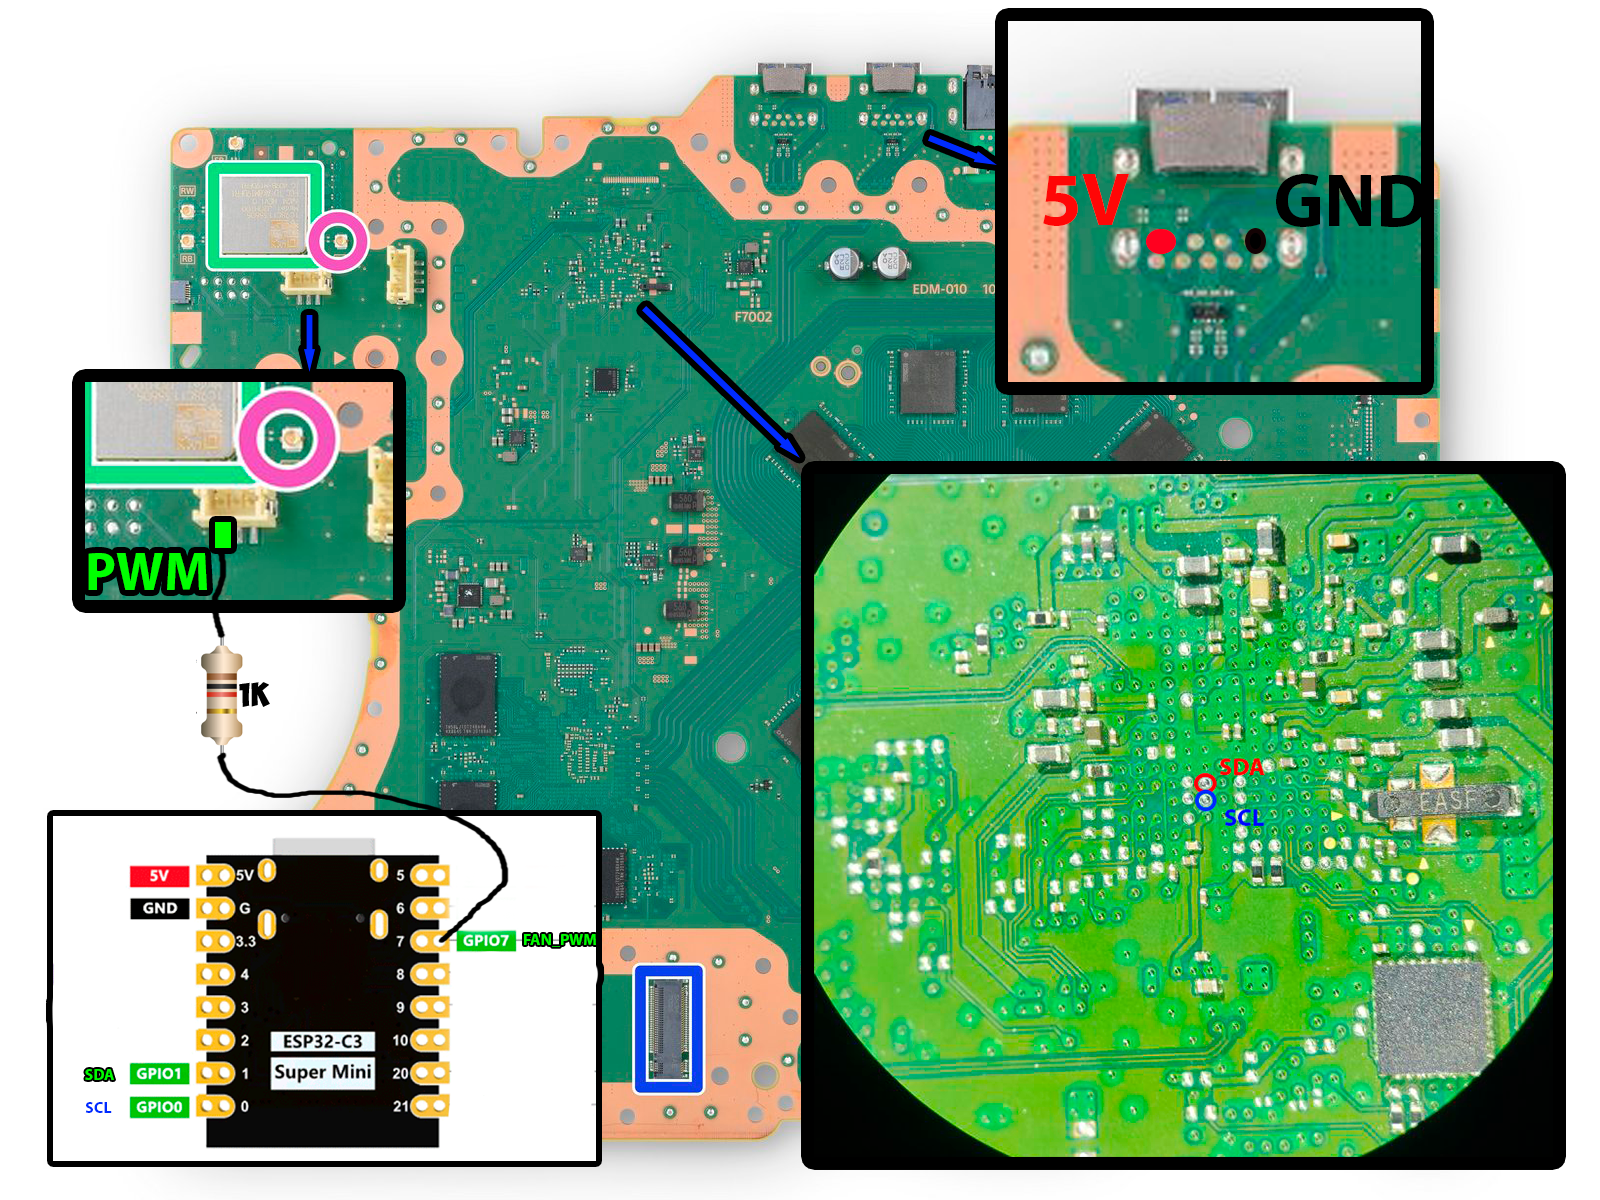
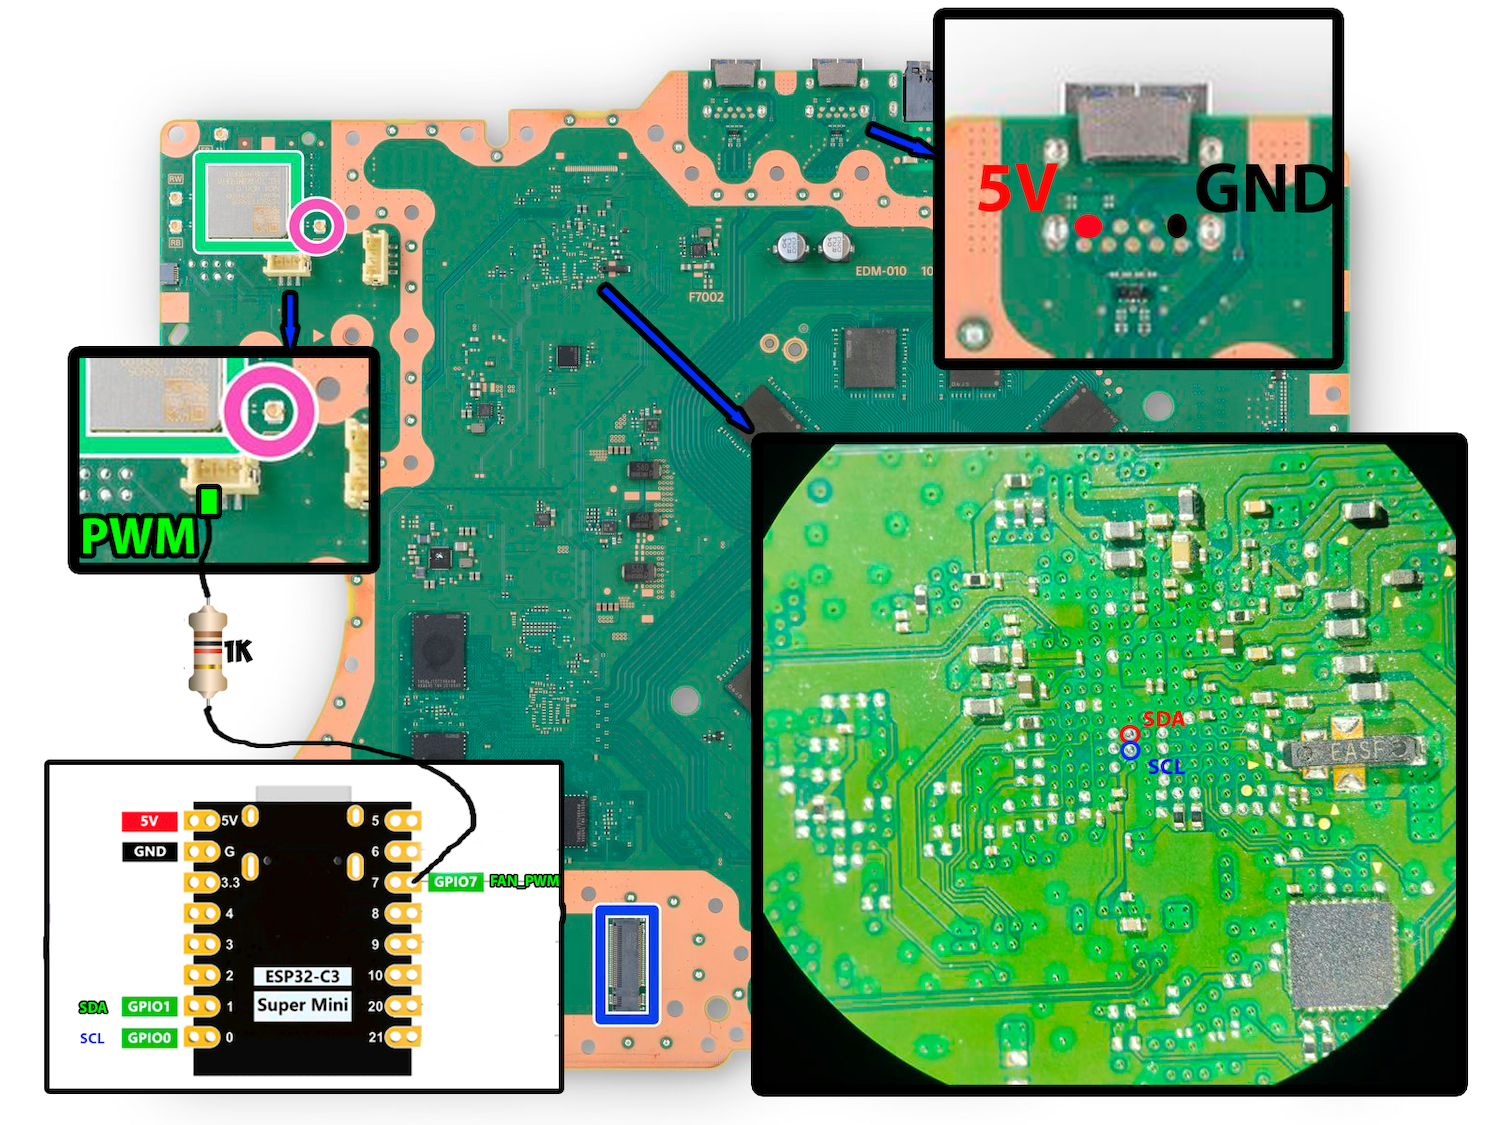
upd

diff --git a/README.md b/README.md
@@ -9,13 +9,9 @@
 <div class="navigation">
 
 [УСТАНОВКА ПРОШИВКИ](#01)
-
 [ПОДКЛЮЧЕНИЕ И НАСТРОЙКА](#02)
-
 [ИНСТРУКЦИЯ ПО ЭКСПЛУАТАЦИИ](#03)
-
 [ДОПОЛНИТЕЛЬНАЯ ПЛАТА](#04)
-
 [ЧАСТО ЗАДАВАЕМЫЕ ВОПРОСЫ (FAQ)](#05)
 
 </div>
@@ -159,11 +155,9 @@ System Ready (Hardware Sync)
 
 *Примечание: конкретные точки подключения SDA/SCL могут незначительно отличаться в разных ревизиях платы, но выводы чипсета M11 и N11 являются стандартными. Обвязка может различаться, но контактные площадки (переходные отверстия) сохраняются.*
 
-![image](media/schematic1.png)
+![image](media/schematic_full.png)
 
 *Принципиальная схема устройства и подключения*
-
-![image](media/schematic2.png)
 
 ### 3. Настройка контроллера
 
@@ -193,7 +187,7 @@ System Ready (Hardware Sync)
 
 ### 1. Главный экран
 
-![image](media/mainscreen.png)
+![image](media/01_mainscreen.png)
 
 На главном экране отображается:
 - **Текущая температура** (°C) - крупное значение в центре.
@@ -230,7 +224,7 @@ System Ready (Hardware Sync)
 
 #### 3.1 MANUAL (Ручной режим)
 
-![image](media/manual.png)
+![image](media/02_manual.png)
 
 В этом режиме вы сами задаёте скорость вентилятора в процентах.
 - Ползунок под надписью MANUAL: XX% позволяет установить нужное значение от 0 до 100%.
@@ -238,7 +232,7 @@ System Ready (Hardware Sync)
 
 #### 3.2 OFFSET (Режим смещения)
 
-![image](media/offset.png)
+![image](media/03_offset.png)
 
 Устройство берёт за основу скорость, заданную штатным управлением консоли (INPUT), и прибавляет к ней фиксированное значение (OFFSET).
 
@@ -246,11 +240,11 @@ System Ready (Hardware Sync)
 - Итоговая скорость = INPUT + OFFSET (ограничивается 100%).
 - *Примечание*: если датчик температуры не работает, в этом режиме можно принудительно игнорировать его (см. раздел 6.3 - значок I2C).
 
-![image](media/ignore.png)
+![image](media/04_ignore.png)
 
 #### 3.3 TARGET (Стабилизация температуры)
 
-![image](media/target.png)
+![image](media/05_target.png)
 
 Устройство пытается удержать температуру консоли на заданном целевом значении, динамически изменяя скорость вентилятора.
 
@@ -261,7 +255,7 @@ System Ready (Hardware Sync)
 
 #### 3.4 GRAPH (Режим кривой)
 
-![image](media/graph.png)
+![image](media/06_graph.png)
 
 Позволяет задать произвольную зависимость скорости вентилятора от температуры с помощью графика-редактора.
 
@@ -271,7 +265,7 @@ System Ready (Hardware Sync)
 
 ### 4. Редактор кривой (GRAPH EDITOR)
 
-![image](media/graphedit.png)
+![image](media/07_graphedit.png)
 
 - **Сетка**: по горизонтали - температура (°C), по вертикали - скорость вентилятора (%).
 - **Синяя линия** - построенная по точкам кривая.
@@ -286,7 +280,7 @@ System Ready (Hardware Sync)
 
 ### 5. Управление статистикой и графиком
 
-![image](media/stats.png)
+![image](media/08_stats.png)
 
 - **AUTO-CLEAR STATS** (кнопка внизу слева): если включено (синий цвет), при выключении консоли статистика (min/max температура и история) автоматически сбрасывается. Полезно для каждого нового сеанса.
 - **RESET STATS** (кнопка справа): ручной сброс статистики и очистка графика.
@@ -295,19 +289,19 @@ System Ready (Hardware Sync)
 
 ### 6. Верхние значки (системные настройки)
 
-![image](media/topicons.png)
+![image](media/09_topicons.png)
 
 В правом верхнем углу расположены пять значков:
 
 #### 6.1 Переключение темы (☀ / ☾)
 
-![image](media/dark.png) ![image](media/light.png)
+![image](media/10_theme.png)
 
 Меняет цветовую схему интерфейса между светлой и тёмной. Выбор сохраняется в памяти устройства.
 
 #### 6.2 Настройки Wi-Fi (🌐)
 
-![image](media/settings.png)
+![image](media/11_settings.png)
 
 Открывает модальное окно **NETWORK SETTINGS**:
 
@@ -322,7 +316,7 @@ System Ready (Hardware Sync)
 
 #### 6.3 Индикатор I2C (датчик температуры)
 
-![image](media/iic1.png) ![image](media/iic2.png) ![image](media/iic3.png)
+![image](media/12_i2c.png)
 
 Показывает состояние датчика температуры, подключённого к шине I2C:
 
@@ -334,40 +328,33 @@ System Ready (Hardware Sync)
 
 #### 6.4 Advanced Settings (AS)
 
-![image](media/advanced.png) 
+![image](media/13_advanced.png) 
 
 Открывает панель **ADVANCED SETTINGS** с дополнительными параметрами:
 
-- **Sensitivity (Response Speed)** - коэффициент K для режима TARGET. Диапазон: 0.1 ... 2.0 (значение K/10). Влияет на скорость реакции при отклонении температуры от целевой.
-- **Smooth (Data Filter)** - коэффициент фильтрации выходного сигнала. Фактическое значение от 0.001 до 0.050 (ползунок 1–50). Чем выше, тем медленнее и плавнее меняется скорость вентилятора.
+- **Sensitivity (Response Speed)** - коэффициент K для режима TARGET. Диапазон: 0.1 ... 2.0 (значение K/10). Влияет на скорость реакции при отклонении температуры от целевой.  
+  **Sensitivity (K)** определяет, насколько сильно увеличивается скорость вентилятора при превышении целевой температуры. Например, при K=1.0 и отклонении на +1°C скорость может вырасти примерно на ~8% (с учётом интегральной составляющей). Высокий K обеспечивает быстрое охлаждение, но возможны перерегулирования.
+- **Smooth (Data Filter)** - коэффициент фильтрации выходного сигнала. Фактическое значение: 0.001 ... 0.050 (ползунок 1–50).  
+  Сглаживает резкие изменения скорости вентилятора: чем выше значение, тем медленнее и плавнее происходят изменения. Значение 0.008 (по умолчанию) даёт умеренную плавность, при увеличении до 0.05 изменения становятся очень медленными, снижая шум и нагрузку.
 - **REBOOT CONTROLLER** - перезагрузка устройства.
 - **RESET ALL TO DEFAULT** - сброс всех настроек (режимы, кривая, параметры Wi-Fi) к заводским значениям. Устройство перезагрузится.
 - **FW version** - версия прошивки.
 
 #### 6.5 Переключение режима управления (SC / PS5)
 
-![image](media/sc.png) ![image](media/ps5.png)
+![image](media/14_scps.png)
 
 Кнопка с надписью **SC** или **PS5**:
 
 - **SC (Smart Cooler)** - устройство активно управляет вентилятором согласно выбранному режиму (синий цвет).
 - **PS5** - режим прозрачного мониторинга: устройство пропускает штатный сигнал консоли напрямую к вентилятору, но продолжает отображать температуру и статистику. Выходная скорость повторяет входную (благодаря дополнительному мультиплексору происходит именно физическое переключение сигналов, а не имитация внутри устройства).
 
-### 7. Параметры Sensitivity и Smooth - пояснение
-
-![image](media/advancedopt.png)
-
-- **Sensitivity (K)** определяет, насколько сильно будет увеличиваться скорость при превышении целевой температуры. Например, при K=1.0 и превышении на 1°C скорость может вырасти на ~8% (плюс интегральная составляющая). Высокий K даёт быстрое охлаждение, но возможны перерегулирования.
-- **Smooth** сглаживает резкие изменения скорости, защищая вентилятор от рывков и снижая шум. Значение 0.008 (по умолчанию) даёт умеренную плавность. При увеличении до 0.05 изменения становятся очень медленными.
-
-Рекомендуется начинать с настроек по умолчанию и корректировать их под свои предпочтения.
-
-### 8. Сброс и перезагрузка
+### 7. Сброс и перезагрузка
 
 - **Через интерфейс**: используйте кнопки в Advanced Settings (`REBOOT` / `RESET ALL TO DEFAULT`).
 - **Аппаратный сброс**: если устройство перестало отвечать, можно перезагрузить его отключением питания консоли на 10 секунд.
 
-### 9. Техническая поддержка
+### 8. Техническая поддержка
 
 В случае возникновения вопросов обращайтесь к документации на сайте производителя или в официальный Telegram‑канал.
 